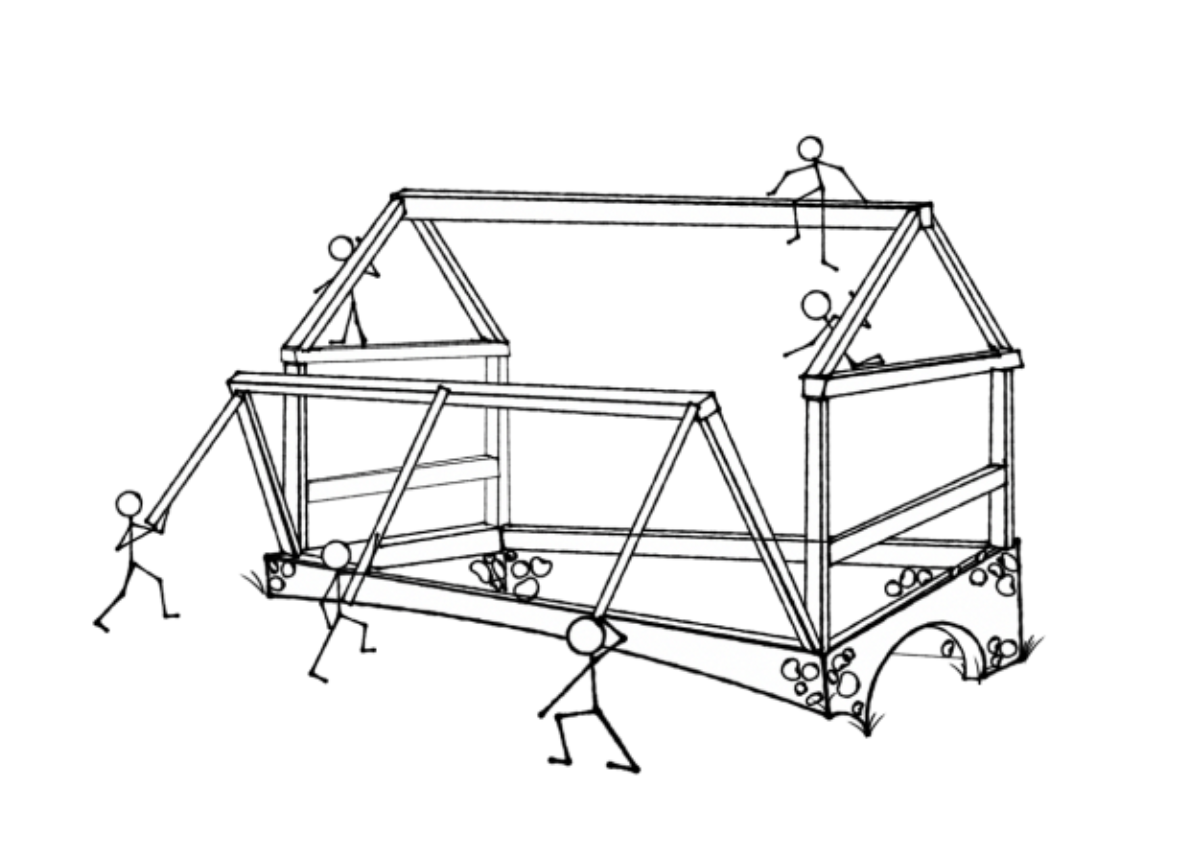
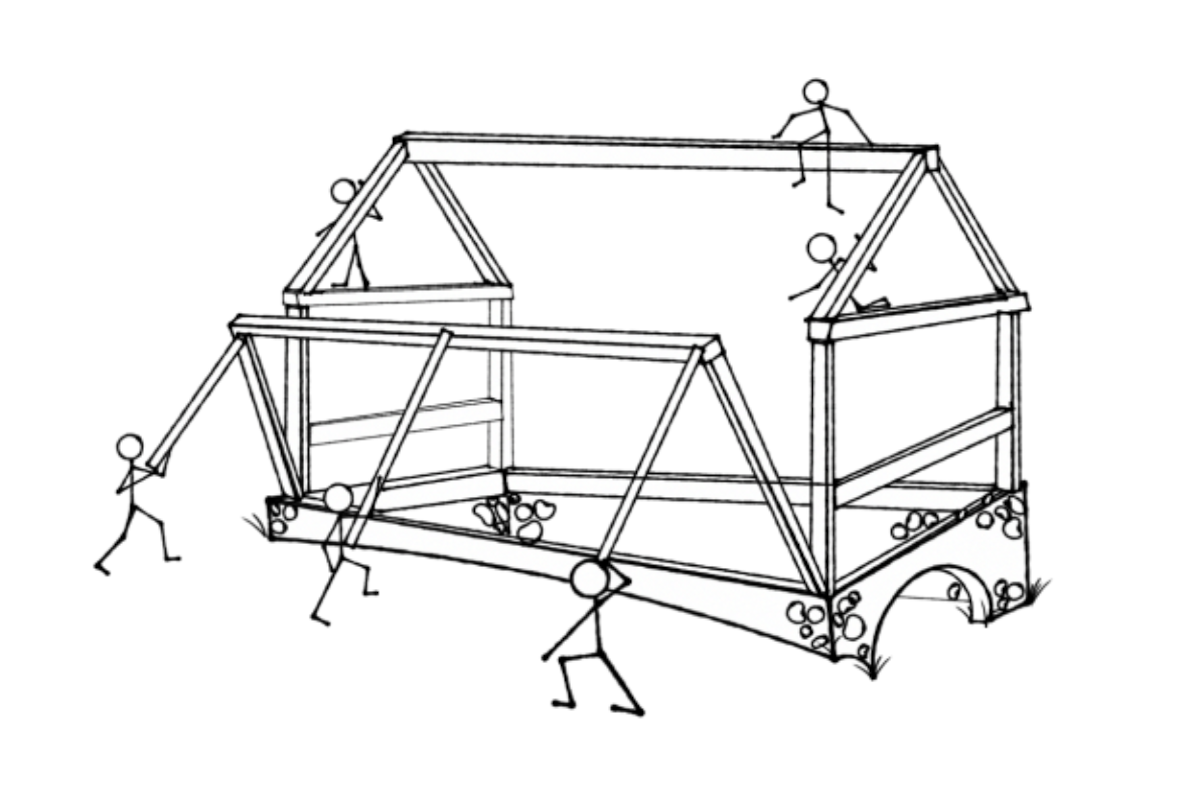
Add Round Zero to accordian, unify image sizing

Changed region(s): [[0.0931, 0.0938, 0.8691, 0.9062], [0.0621, 0.6875, 0.0931, 0.75]]

diff --git a/oce/templates/index.html b/oce/templates/index.html
@@ -1,4 +1,4 @@
-<!DOCTYPE html>
+<!doctype html>
 <html lang="en">
   <head>
     <meta charset="UTF-8" />
@@ -127,75 +127,65 @@
         class="row align-items-center text-center bg-warning text-white mb-5 my-0"
       >
         <div class="col py-3">
-          <h2>Levels</h2>
+          <h2>Rounds</h2>
         </div>
       </div>
 
       <div class="row align-items-center mb-5 py-10">
         <div class="col-12 col-md-6 mb-4">
-          <div class="accordion" id="accordionExample">
-            <div class="accordion-item">
-              <h2 class="accordion-header">
-                <button
-                  class="accordion-button"
-                  type="button"
-                  data-bs-toggle="collapse"
-                  data-bs-target="#collapseOne"
-                  aria-expanded="true"
-                  aria-controls="collapseOne"
+          <div class="accordion" id="rounds-accordian">
+            {%
+              for round in [
+              ('Zero', [
+              ('Scientists believe Earth was formed', '4.6 billion ya'),
+              ('Dinosaurs roam our Earth', '248-65 million ya'),
+              ('First stone tools, all humans live in Africa', '2.5 million ya'),
+              ('Neanderthals and Denisovians walk to Europe and Asia', '600,000 ya'),
+              ('Ancient humans make spears and use fire', '500,000 ya'),
+              ('Homo Sapiens, our species, emerges and grows to about 30,000 people', '200,000 ya'),
+              ('Our genetic mother in East Africa gave her DNA to all of us', '160,000 ya'),
+              ('We built the stone circles when all us Sapines lived in Africa and were the same color', '100,000 ya'),
+              ('Some of us Sapiens walk north out of Africa and we make our first beads', '74,000 ya'),
+              ('Sapiens who went North meet up with Neanderthals and Denisovians', '50,000 ya')
+              ])
+
+              ]
+            %}
+              <div class="accordion-item">
+                <h2 class="accordion-header">
+                  <button
+                    class="accordion-button"
+                    type="button"
+                    data-bs-toggle="collapse"
+                    data-bs-target="{{ '#collapse' ~ round[0] }}"
+                    aria-expanded="true"
+                    aria-controls="{{ 'collapse' ~ round[0] }}"
+                  >
+                    {{ 'Round ' ~ round[0] }}
+                  </button>
+                </h2>
+                <div
+                  id="{{ 'collapse' ~ round[0] }}"
+                  class="accordion-collapse collapse show"
+                  data-bs-parent="#rounds-acordian"
                 >
-                  Level One
-                </button>
-              </h2>
-              <div
-                id="collapseOne"
-                class="accordion-collapse collapse show"
-                data-bs-parent="#accordionExample"
-              >
-                <div class="accordion-body">
-                  <strong>This is the first item's accordion body.</strong> It
-                  is shown by default, until the collapse plugin adds the
-                  appropriate classes that we use to style each element. These
-                  classes control the overall appearance, as well as the showing
-                  and hiding via CSS transitions. You can modify any of this
-                  with custom CSS or overriding our default variables. It's also
-                  worth noting that just about any HTML can go within the
-                  <code>.accordion-body</code>, though the transition does limit
-                  overflow.
+                  <div class="accordion-body">
+                    <ul class="list-group">
+                      {% for pair in round[1] %}
+                        <li
+                          class="list-group-item d-flex justify-content-between align-items-center flex-wrap flex-md-nowrap"
+                        >
+                          {{ pair[0] }}
+                          <span class="badge text-bg-primary rounded-pill"
+                            >{{ pair[1] }}</span
+                          >
+                        </li>
+                      {% endfor %}
+                    </ul>
+                  </div>
                 </div>
               </div>
-            </div>
-            <div class="accordion-item">
-              <h2 class="accordion-header">
-                <button
-                  class="accordion-button collapsed"
-                  type="button"
-                  data-bs-toggle="collapse"
-                  data-bs-target="#collapseTwo"
-                  aria-expanded="false"
-                  aria-controls="collapseTwo"
-                >
-                  Levels Two through Four
-                </button>
-              </h2>
-              <div
-                id="collapseTwo"
-                class="accordion-collapse collapse"
-                data-bs-parent="#accordionExample"
-              >
-                <div class="accordion-body">
-                  <strong>This is the second item's accordion body.</strong> It
-                  is hidden by default, until the collapse plugin adds the
-                  appropriate classes that we use to style each element. These
-                  classes control the overall appearance, as well as the showing
-                  and hiding via CSS transitions. You can modify any of this
-                  with custom CSS or overriding our default variables. It's also
-                  worth noting that just about any HTML can go within the
-                  <code>.accordion-body</code>, though the transition does limit
-                  overflow.
-                </div>
-              </div>
-            </div>
+            {% endfor %}
           </div>
         </div>
         <div class="col-12 col-md-6 mb-4">
